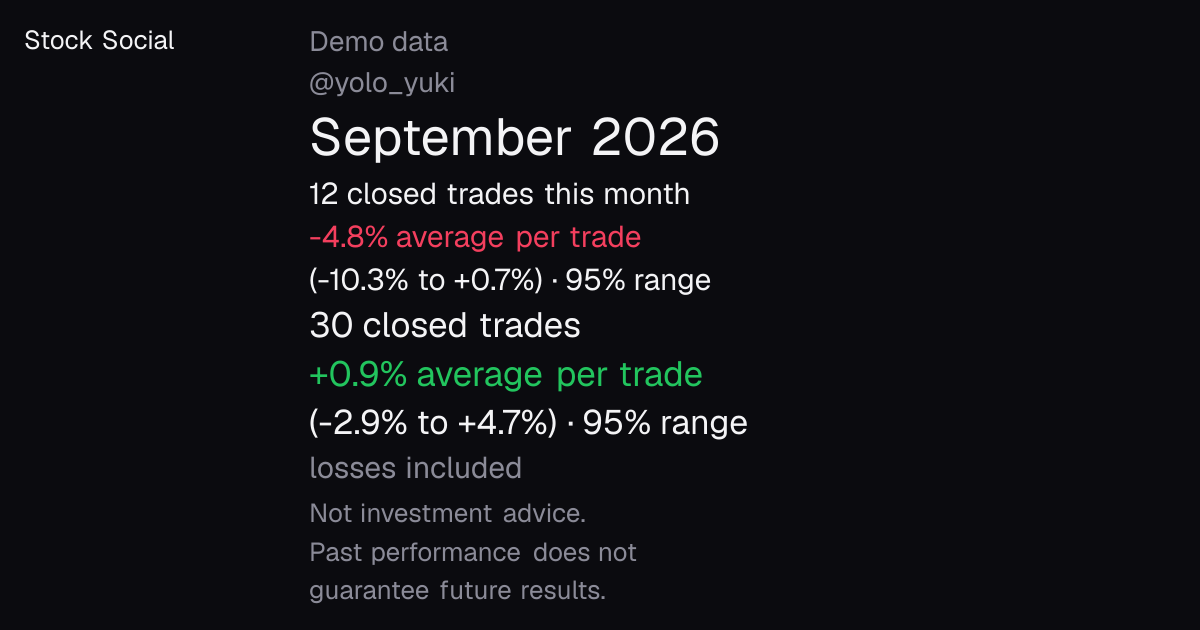
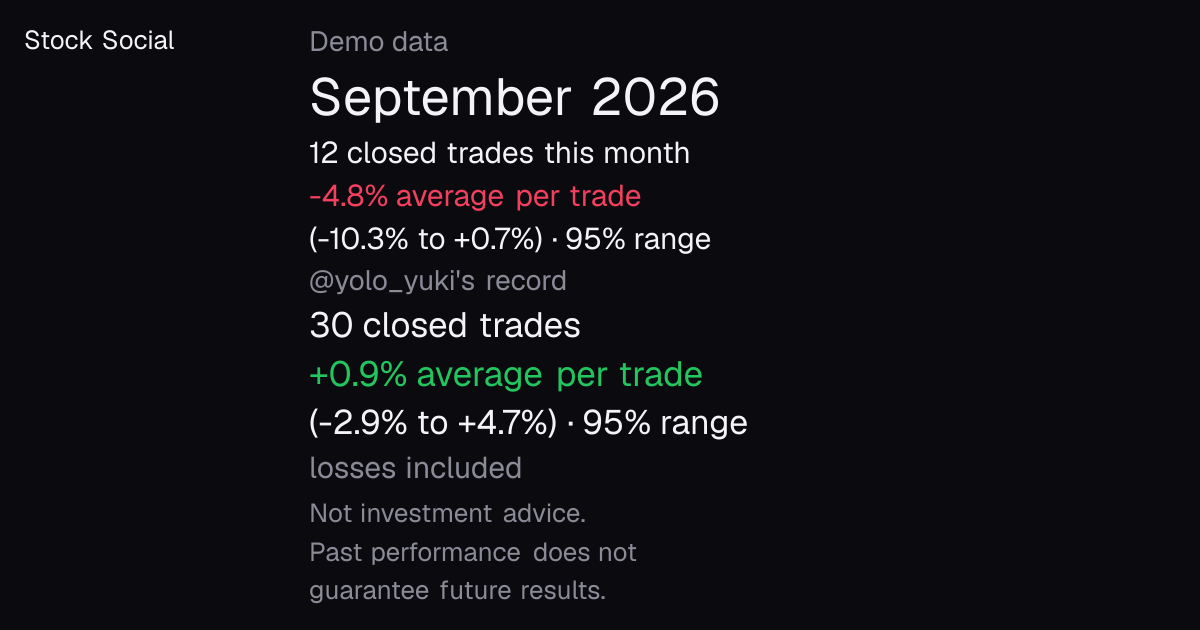
F-10/F-12: UX lead re-test signed (360, 320, 780x360; signed out and in)
Claude-Session: https://claude.ai/code/session_01Cdty8oLdRgNVj4eet6CDs2

Changed region(s): [[0.2467, 0.1206, 0.6167, 0.3317], [0.2467, 0.3619, 0.5858, 0.4825]]

diff --git a/docs/features/logs/F-10/user-test-ux-2026-11-01.md b/docs/features/logs/F-10/user-test-ux-2026-11-01.md
@@ -101,3 +101,58 @@ Verdict: **NOT YET**: 3 blocking findings, 11 non-blocking.
   `f10_strip`) rather than this test.
 - Signed in, the feed, trade and month pages match the signed-out results: same strips and no scroll. The nav shows
   "My record @momentum_maya" (`feed-360-light-signedin.png`).
+
+## Re-test, 2026-11-01 (after the blocking fixes)
+
+Verdict: **SIGN**. All three blocking findings are fixed. No new blocking findings.
+
+### Setup
+- A fresh build on `:3100`, confirmed before testing: the feed carries `[data-disclaimer]` and "· 95% range". I retook
+  every screenshot after the coordinator's restart notice.
+- Same pages: 360×640 in light and dark, 320×640 and 780×360 landscape, signed out and signed in as `momentum_maya`.
+- Refreshed screenshots: `feed-360-light-signedout.png`, `feed-320-light-signedout.png`,
+  `feed-lucky-card-360-light-signedout.png`, `feed-360-light-signedin.png`, `og-trade-yolo_yuki-TSLA.png`,
+  `og-month-yolo_yuki-2026-09.png`.
+- New screenshot: `feed-780x360-light-signedout.png`.
+
+### Blocking findings
+
+**B1, disclaimer on the feed's first screen: fixed.** Each card's footer now carries the full disclaimer, 14 px, at
+5.0:1 in light. It is fully in the first viewport at every size, including the card scrolled into view:
+
+| Viewport | Disclaimer position (y) | Viewport height |
+|---|---|---|
+| 360×640 | 570–611 | 640 |
+| 320×640 | 550–611 | 640 |
+| 780×360 | 327–347 | 360 |
+
+Screenshots: `feed-360-light-signedout.png`, `feed-lucky-card-360-light-signedout.png`, `feed-320-light-signedout.png`,
+`feed-780x360-light-signedout.png`.
+
+**B2, unlabelled feed range: fixed.** The card now reads "30 closed trades · +0.9% average per trade (-2.9% to +4.7%)
+· 95% range", which matches the profile and the pages. Under "+16.9%" it no longer reads as the trader's lowest and
+highest trade. The line takes 2 lines at 360 and 780, and 3 lines at 320. The return, the strip and the disclaimer
+still fit on one screen. Screenshot: `feed-lucky-card-360-light-signedout.png`.
+
+**B3, unlabelled record block on images: fixed.** The trade and month images now put "@yolo_yuki's record" directly
+above "30 closed trades". On the September image, the month block (-4.8%) and the record block (+0.9%) are now clearly
+separate. The text still sits in x 309–758 and y 31–604, inside the centred square crop, and the disclaimer is intact.
+The alt text is unchanged and matches. Screenshots: `og-month-yolo_yuki-2026-09.png`, `og-trade-yolo_yuki-TSLA.png`.
+
+### Non-blocking finding N2
+**N2, screen readers: fixed.** The card's accessible text now reads "Demo 30 closed trades · +0.9% average per trade
+(+0.4% to +1.3%) · 95% range". The disclaimer paragraph follows the record link in reading order.
+
+### Other checks
+- No horizontal scroll on the feed, trade or month pages at 320, 360 or 780×360, signed in or out.
+- Tapping the card's record link still opens the profile.
+- The trade and month pages are unchanged and still pass.
+
+### Still open (non-blocking)
+- N1 and N3–N11 stand as listed above.
+- At 320 the "→" of "See their record, wins and losses →" wraps onto a line by itself (`feed-320-light-signedout.png`).
+  Fix: put a non-breaking space before the arrow.
+- I couldn't see the 2-line thesis clamp (1 line at ≤480 px tall) live, because the demo theses are short. It relies on
+  the e2e test with a 280-character thesis.
+- A "✓ Verified 2,828 closed trades · -0.1% …" card appeared in the shared database during the run. It is probably an
+  e2e or load fixture from the concurrent run on `:3000`. It fit in 3 lines at 320 with nothing clipped.
